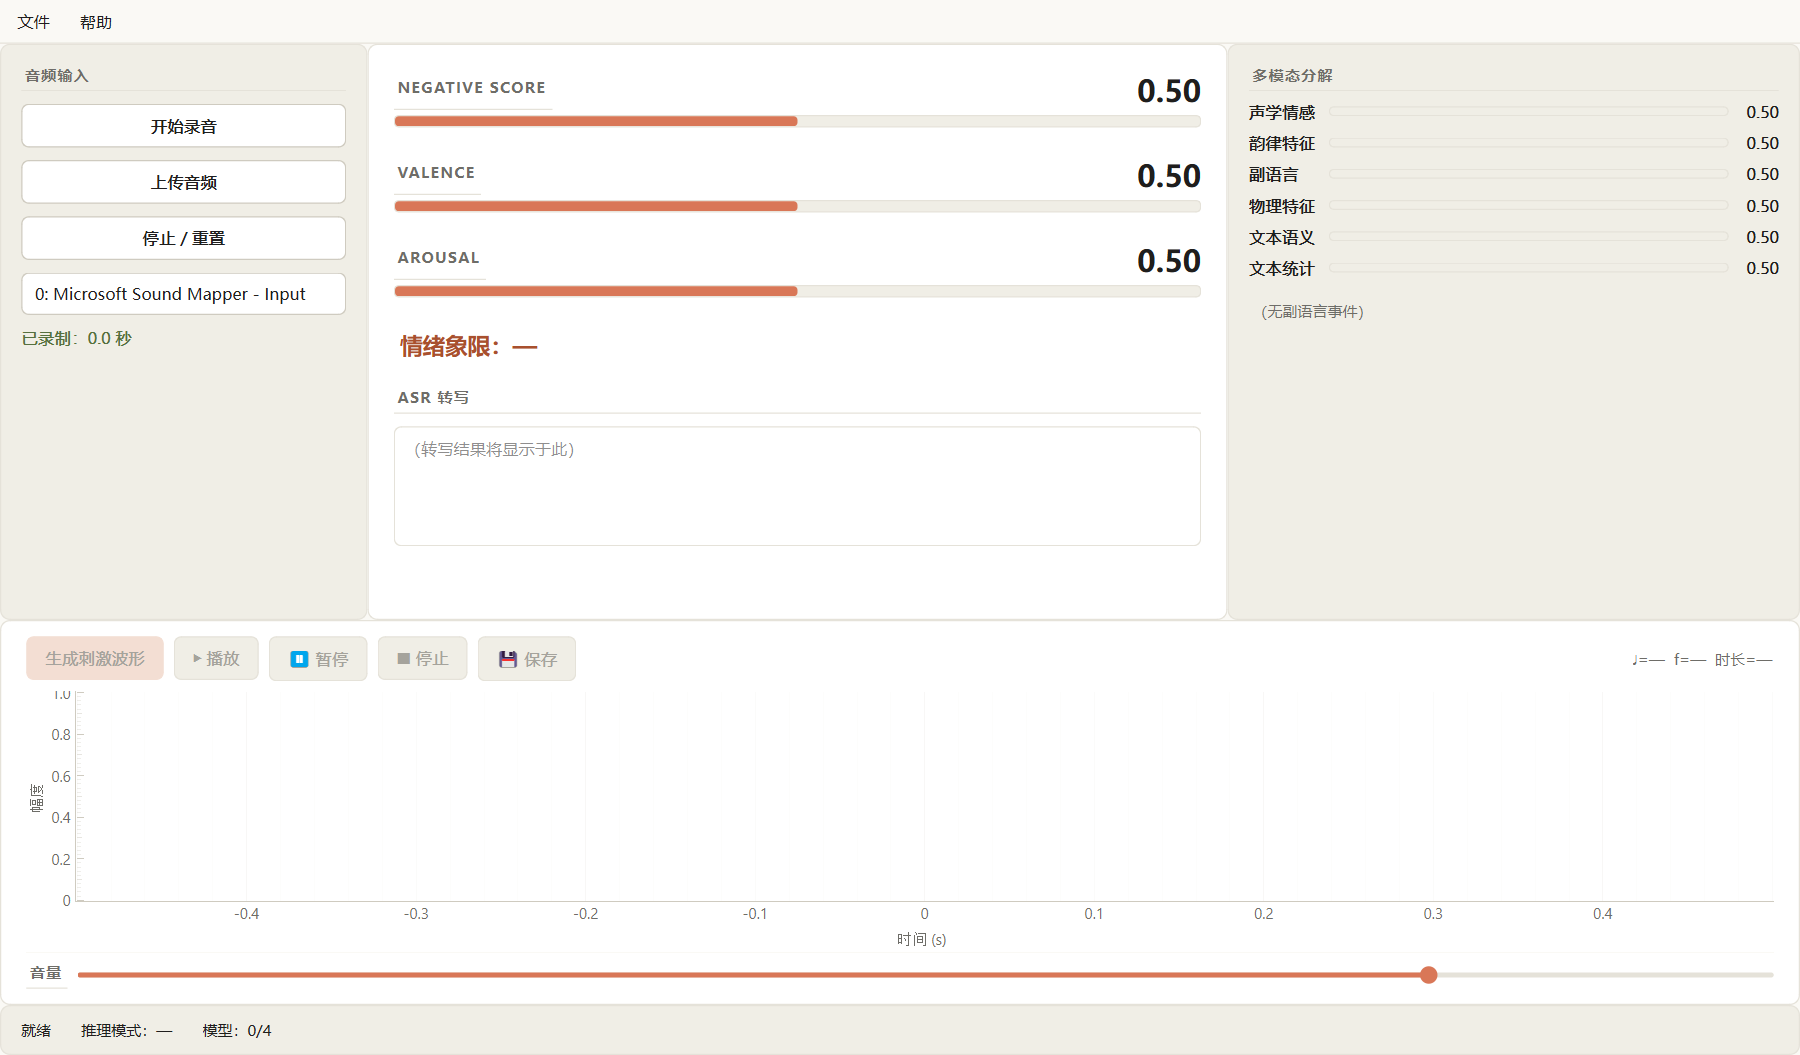
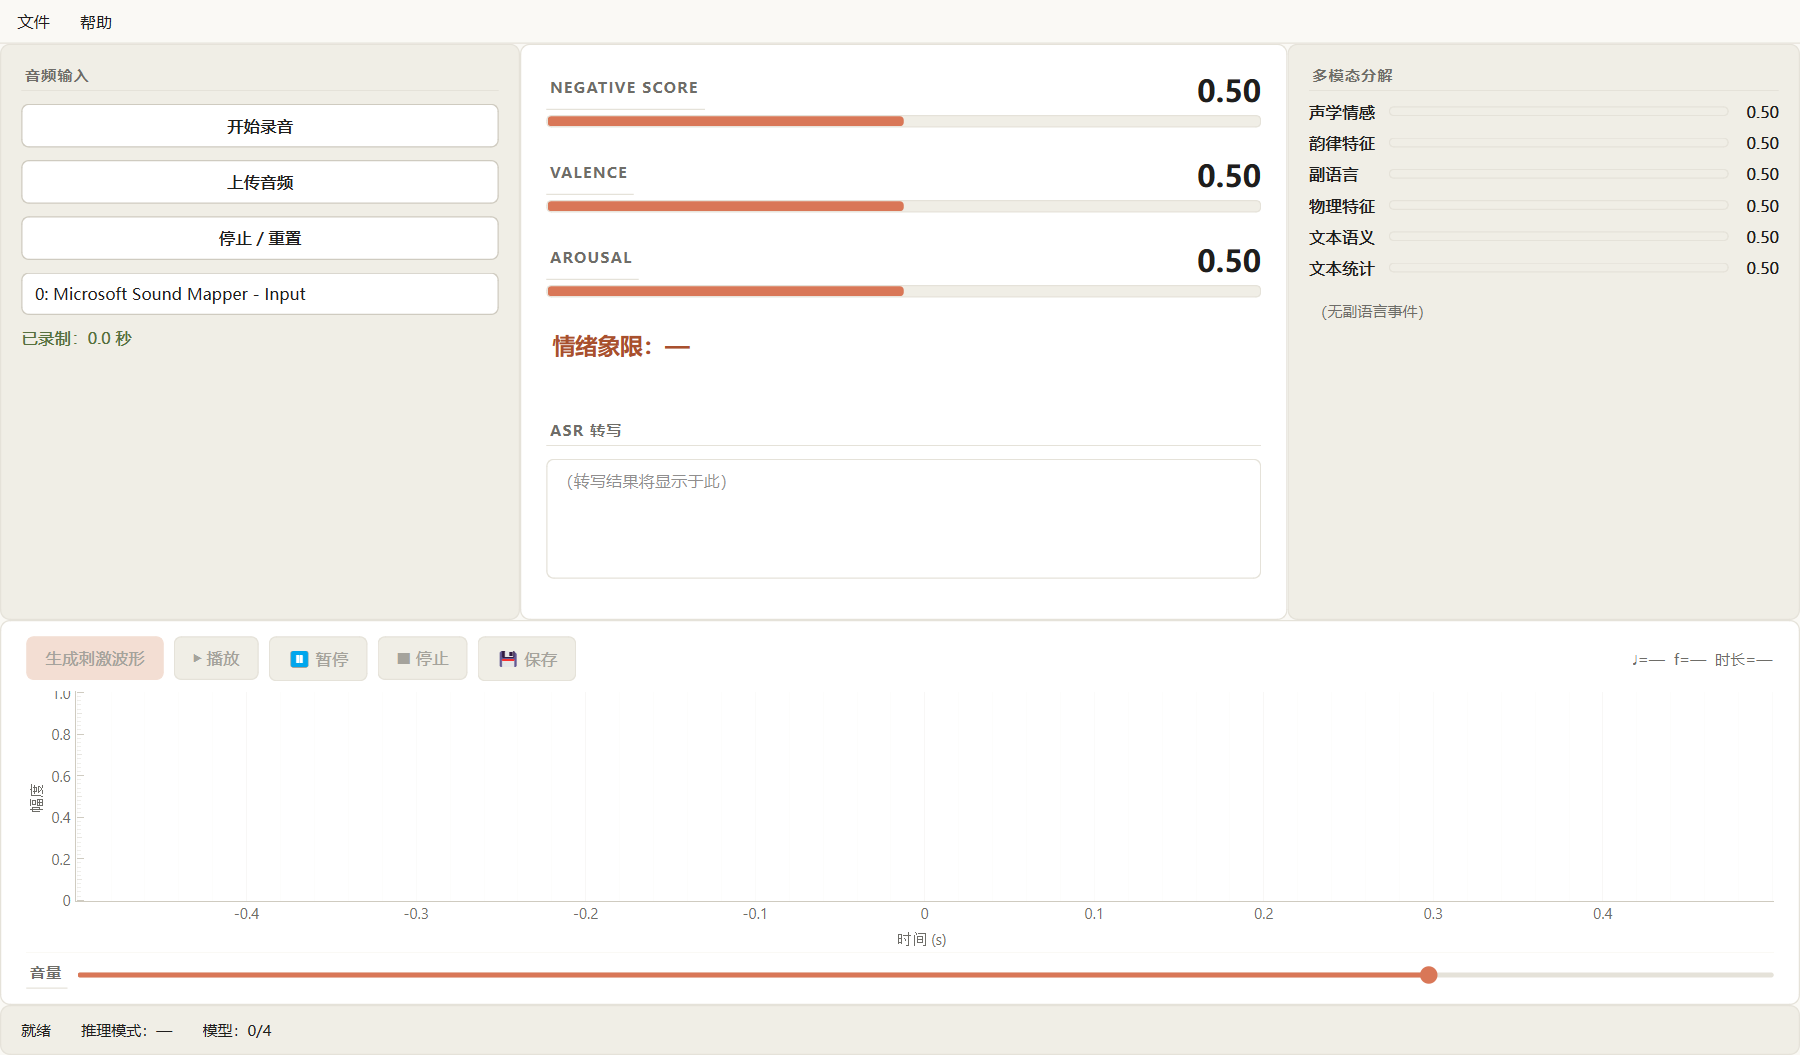
feat(gui): 模态分歧与校准来源放到象限标题下的次级标签；几何检查桩数据覆盖该文本；截图更新

diff --git a/src/gui/main_window.py b/src/gui/main_window.py
@@ -188,6 +188,11 @@ class MainWindow(QMainWindow):
                    padding="8px 0 12px 0", border="none")
         )
         layout.addWidget(self.quadrant_label)
+        # 次级信息：模态分歧（不确定性）与校准来源，小号灰字，不挤占标题
+        self.quadrant_meta = QLabel("")
+        self.quadrant_meta.setWordWrap(True)
+        self.quadrant_meta.setStyleSheet(inline(color="text_muted", font_size="12px", border="none"))
+        layout.addWidget(self.quadrant_meta)
 
         layout.addWidget(self._h1("ASR 转写"))
         self.asr_text = QTextEdit()
@@ -540,6 +545,7 @@ class MainWindow(QMainWindow):
         for m in (self.metric_negative, self.metric_valence, self.metric_arousal):
             m.set_value(0.5)
         self.quadrant_label.setText("情绪象限：—")
+        self.quadrant_meta.setText("")
         self.btn_generate.setEnabled(False)
         for b in (self.btn_play, self.btn_pause, self.btn_stop, self.btn_save):
             b.setEnabled(False)
@@ -651,14 +657,18 @@ class MainWindow(QMainWindow):
         self.metric_arousal.set_value(result["arousal"])
         q = result["dominant_quadrant"]
         from src.fusion.quadrant import QUADRANT_NAMES
+        self.quadrant_label.setText(f"情绪象限：{q} — {QUADRANT_NAMES.get(q, '')}")
         unc = result.get("uncertainty") or {}
-        sd_txt = ""
+        meta = []
         if unc:
-            sd_txt = f"   模态分歧 ±{unc.get('negative_sd', 0):.2f} / ±{unc.get('arousal_sd', 0):.2f}"
-        src_txt = {"personal": "个人基线", "corpus": "语料校准"}.get(result.get("calibration_source"), "")
+            meta.append(f"模态分歧（加权 SD）negative ±{unc.get('negative_sd', 0):.2f} · "
+                        f"arousal ±{unc.get('arousal_sd', 0):.2f}")
+        src_txt = {"personal": "个人基线校准", "corpus": "语料级校准"}.get(result.get("calibration_source"), "")
         if src_txt:
-            sd_txt += f"  [{src_txt}]"
-        self.quadrant_label.setText(f"情绪象限：{q} — {QUADRANT_NAMES.get(q, '')}{sd_txt}")
+            meta.append(src_txt)
+        if result.get("fusion_mode") == "learned":
+            meta.append("可学习融合")
+        self.quadrant_meta.setText("  |  ".join(meta))
         self.asr_text.setPlainText(result.get("asr_text", ""))
 
         # SNR 警告

diff --git a/scripts/ui_geometry_check.py b/scripts/ui_geometry_check.py
@@ -156,6 +156,8 @@ def populate_analyzed(win) -> None:
         "memberships": {"Q1": 0.05, "Q2": 0.80, "Q3": 0.10, "Q4": 0.05},
         "duration": 12.3, "asr_confidence": 0.9,
         "degraded_modalities": ["paralang"],       # 触发降级提示（两行警告）
+        "uncertainty": {"negative_sd": 0.21, "arousal_sd": 0.08, "n_active": 5},   # v0.3 象限标题加长
+        "calibration_source": "personal",
     })
     win.status_block.set_mode("CUDA")
     win.status_block.set_model_progress(4, 4)

diff --git a/tests/test_gui_smoke.py b/tests/test_gui_smoke.py
@@ -389,8 +389,9 @@ def test_uncertainty_shown_in_quadrant_label(window):
         "calibration_source": "personal",
     }
     window._on_analysis_done(result)
-    txt = window.quadrant_label.text()
-    assert "±0.21" in txt and "个人基线" in txt
+    assert "Q2" in window.quadrant_label.text()
+    meta = window.quadrant_meta.text()
+    assert "±0.21" in meta and "个人基线" in meta
 
 
 # ====================================================================
